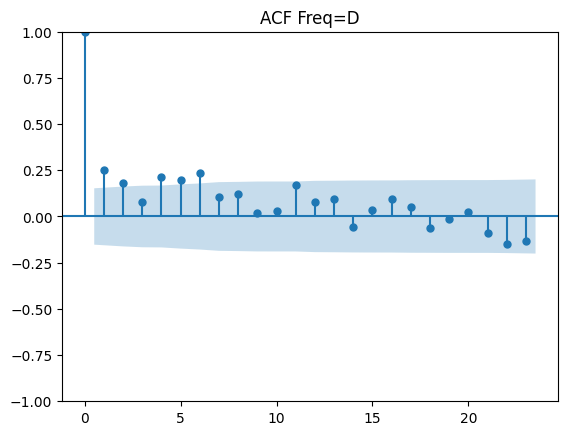
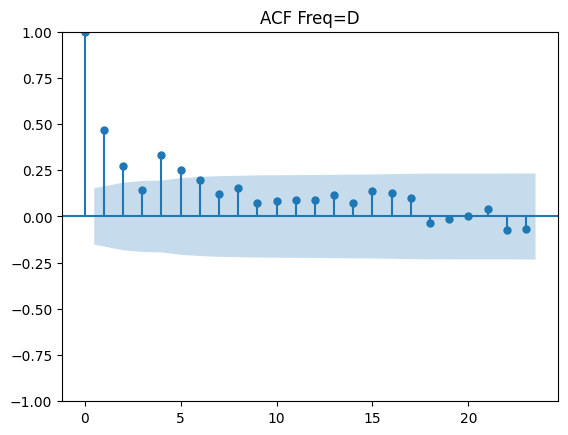
change asfreq to resample.mean() where suitable & replot where changed

diff --git a/src/visualization/2_silica_concentrate_viz.py b/src/visualization/2_silica_concentrate_viz.py
@@ -43,29 +43,29 @@ ema_silica.describe()
 plot_acf(silica, title="ACF Freq=20S")
 
 #%% ACF Freq=T
-plot_acf(silica.asfreq("T"), title="ACF Freq=T")
+plot_acf(silica.resample("T").mean(), title="ACF Freq=T")
 
 #%% "ACF Freq=H"
-plot_acf(silica.asfreq("H"), title="ACF Freq=H")
+plot_acf(silica.resample("H").mean(), title="ACF Freq=H")
 
 #%% ACF EMA Freq=H
 plot_acf(ema_silica.asfreq("H"), title="ACF EMA Freq=H")
 
 #%% "ACF Freq=D"
-plot_acf(silica.asfreq("D"), title="ACF Freq=D")
+plot_acf(silica.resample("D").mean(), title="ACF Freq=D")
 
 #%% ACF EMA Freq=D
 plot_acf(ema_silica.asfreq("D"), title="ACF EMA Freq=D")
 
-#%%
-plot_acf(silica.asfreq("W"), title="ACF Freq=W")
+#%% ACF Freq=W
+plot_acf(silica.resample("W").mean(), title="ACF Freq=W")
 
-#%%
-plot_acf(silica.asfreq("M"), title="ACF Freq=M")
+#%% ACF Freq=M
+plot_acf(silica.resample("M").mean(), title="ACF Freq=M")
 
 #%% Line plot & Distribution
 def line_and_dist(data, freq = None, line_size=SIZE/10, shift=False, label_int=4):
-    data = data.asfreq(freq) if freq else data
+    data = data.resample(freq).mean() if freq else data
     data = data - data.shift() if shift else data
 
     silica_label = f"Diff({SILICA_CONCENTRATE})" if shift else f"{SILICA_CONCENTRATE}"
@@ -110,7 +110,7 @@ line_and_dist(silica, freq="M", shift=True, label_int=32)
 
 #%% Plot both SLT(LOESS) and naive seasonal decompose 
 def decompose_plot(data: pd.DataFrame, freq: string, interval: int):
-    data = data.resample(freq).mean().ffill()
+    data = data.resample(freq).mean()
     
     decomp_slt = ssnl.STL(data).fit()
     decomp_naive = ssnl.seasonal_decompose(data, model = "multiplicative", extrapolate_trend="freq")
@@ -158,7 +158,7 @@ decompose_plot(hour_series, "H", 1)
 #TODO Zoom to find the period of the hours seasonality 
 
 #%% Decomposition in days full series
-decompose_plot(silica[180*24*5:], "D", 7)
+decompose_plot(silica, "D", 7)
 
 #%% Decomposition in days zoom to get a visual idea of the season period
 decompose_plot(silica[180*24*6:math.trunc(SIZE/4)], "D", 1)
